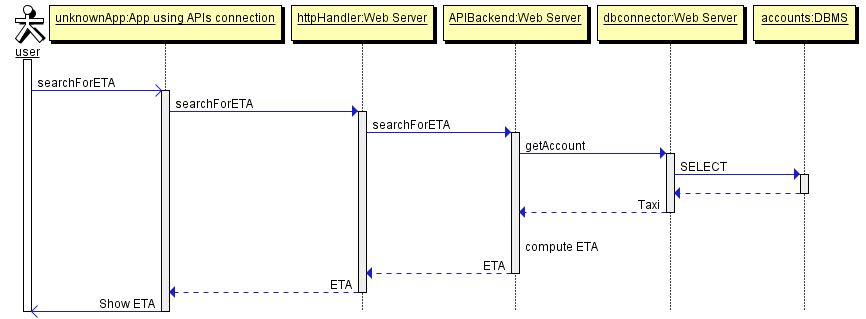
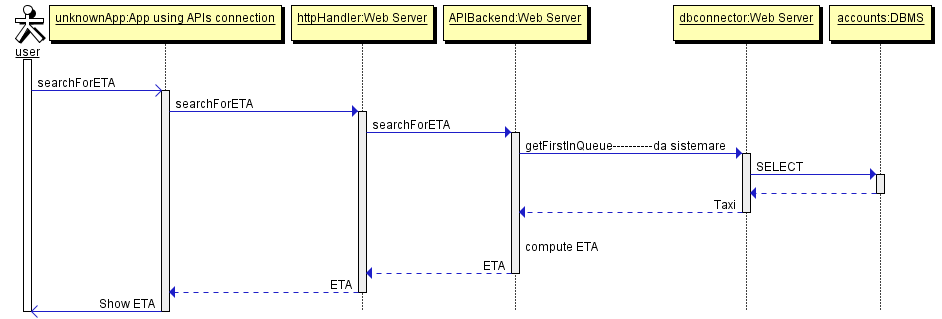
quasi finito

diff --git a/DesignDocument/DesignDocument.tex b/DesignDocument/DesignDocument.tex
@@ -115,7 +115,7 @@ The following Sequence Diagram demonstrates how a user can request a taxi.
 \end{figure}
 Some details:
 \begin{itemize}
-	\item HTTPS negotiations are omitted in order to preserve readability, but they would all be between the apps (Web or Mobile) and the httpHandler %TODO spiega cosa sono le negotiations | è cultura generale, direi di no, non mi pare di avere spiegato cosa sia una taxi
+	\item HTTPS negotiations are omitted in order to preserve readability, but they would all be between the apps (Web or Mobile) and the httpHandler.
 	\item Queues are not represented in the database, but they are all re-computed, whenever it is requested, with a query that selects the taxis that are active, are in the desired area and returns them sorted by the time they were marked as active.
 \end{itemize}
 \subsection{Component Interfaces}
@@ -135,7 +135,6 @@ This interface encapsulates and exposes all the operations the Web Server needs 
 				getAccount & user ID & returns the account corresponding to the ID with all its attributes \\
 				getAllAccounts & type of the accounts & returns all the accounts of the specified type \\
 				getFirstInQueue & location & returns the first taxi (by activation time) that is in the given zone.\\
-				%TODO dobbiamo mettere qualche metodo che ritorni il CAT perchè non ne abbiamo e poi metterlo nel sd apiusage...a meno che non gli facciamo tiraer fuori tutti i taxi e gli facciamo computare l'eta passandoli tutti<<-- io voto per questa voto anche io
 				checkAuthenticity & user ID & returns true if the specified account is in the DB, false otherwise \\
 				\bottomrule
 			\end{tabular}	
@@ -271,7 +270,7 @@ The following list distinguishes notifications sent to taxi drivers from those s
 				\midrule
 				notifyIncomingRequest & starting location, user ID, request ID & the taxi driver is notified of an incoming request from the specified user and starting location\\ 
 				notifyIncomingReservation & starting location, user ID, meeting time, reservation ID & the taxi driver is notified of an incoming reservation for the specified meeting time and from the specified user and starting location \\
-				notifyDeletedRequest %TODO ma se facessimo solo sparire il messaggio della richiesta quando viene cancellata prima che faccia in tempo ad accettarla? nel sd di cancel c'è un coso che mi fa abort ma è bruttino da vedere XD la parola abort non mi piace xD | ok togli tutto
+				notifyDeletedRequest & & the taxi driver is notified that the user has deleted the request for which he was prompted to accept or refuse\\
 				\bottomrule
 			\end{tabular}
 		\end{adjustbox}	
@@ -280,7 +279,7 @@ The following list distinguishes notifications sent to taxi drivers from those s
 \subsection{Selected Architectural Styles and Patterns}
 The most important part of the application is based on a classical Client-Server pattern: the service is completely provided by the centralized core, to which clients connect in order to perform any operation.\\
 More in details, the pattern involves a very thin client with almost no functionalities except for connecting to the server and displaying the information received.\\
-For the Web Server it was decided to adopt a 3-tier subdivision: the untrusted internet, the DMZ and the internal network. %TODO qualche dettaglio zuccheroso in più? mi sembra un po poco | non so cosa metterci
+For the Web Server it was decided to adopt a 3-tier subdivision: the untrusted internet, the DMZ and the internal network.
 \subsection{Other Design Decisions}
 In order to provide an easier maintenance and to allow the project to scale easily, two main points were stated: 
 \begin{itemize}
